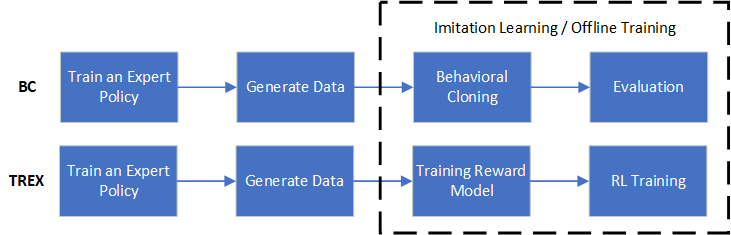
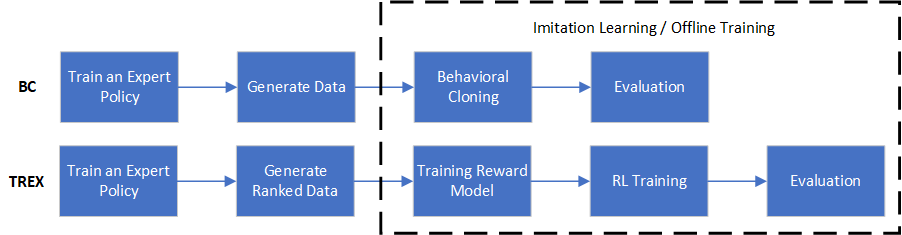
polish doc

diff --git a/source/04_best_practice/imitation_learning.rst b/source/04_best_practice/imitation_learning.rst
@@ -28,11 +28,11 @@ In this step, we will train an expert policy, which has no difference with stand
 
       from copy import deepcopy
       from easydict import EasyDict
-      from dizoo.classic_control.cartpole.config.cartpole_offppo_config import cartpole_offppo_config,\
-      cartpole_offppo_create_config
+      from dizoo.classic_control.cartpole.config.cartpole_ppo_offpolicy_config import cartpole_ppo_offpolicy_config,\
+      cartpole_ppo_offpolicy_create_config
       from ding.entry import serial_pipeline_bc, collect_demo_data, serial_pipeline
 
-      config = [deepcopy(cartpole_offppo_config), deepcopy(cartpole_offppo_create_config)]
+      config = [deepcopy(cartpole_ppo_offpolicy_config), deepcopy(cartpole_ppo_offpolicy_create_config)]
       config[0].policy.learn.learner.hook.save_ckpt_after_iter = 100
       expert_policy = serial_pipeline(config, seed=0)
 
@@ -48,7 +48,7 @@ For different Imitation Learning or Offline Training algorithms, formats of demo
       collect_count = 10000  # number of transitions to collect
       expert_data_path = 'expert_data_ppo_bc.pkl'  # data path to be saved
       state_dict = expert_policy.collect_mode.state_dict()
-      collect_config = [deepcopy(cartpole_offppo_config), deepcopy(cartpole_offppo_create_config)]
+      collect_config = [deepcopy(cartpole_ppo_offpolicy_config), deepcopy(cartpole_ppo_offpolicy_create_config)]
       collect_config[0].exp_name = 'test_serial_pipeline_bc_ppo_collect'
       collect_demo_data(
           collect_config, seed=0, state_dict=state_dict, expert_data_path=expert_data_path, collect_count=collect_count
@@ -56,7 +56,16 @@ For different Imitation Learning or Offline Training algorithms, formats of demo
 
 Because the collect config is almost the same compared to the expert config, we directly modify the original config.
 
-If we requires demonstration data sorted according to quality ranking (e.g. TREX), we should use another function to collect demonstration data:
+For TREX, however, data generation process is more complicated and is shown as below:
+
+.. image::
+    images/trex.png
+    :width: 500
+    :align: center
+
+Firstly, we load different expert models to generate various demonstration episodes. Then, the episodes will be sampled into snippets with shorter sequence length, which are sorted according to their total return.
+
+In our implementation, the process above is included in one function. The method for collecting TREX data is:
 
    .. code:: python
 
@@ -69,9 +78,6 @@ If we requires demonstration data sorted according to quality ranking (e.g. TREX
       collect_config[0].reward_model.data_path = exp_name
       collect_config[0].reward_model.reward_model_path = exp_name + '/cartpole.params'  # path for saving TREX reward model
       collect_config[0].reward_model.expert_model_path = config[0].exp_name
-      collect_config[0].reward_model.checkpoint_max = 100  # specifying ckpt for generating demonstration data.
-      collect_config[0].reward_model.checkpoint_step = 100
-      collect_config[0].reward_model.num_snippets = 100  # number of sampled pieces from the total episode.
       args = EasyDict({'cfg': deepcopy(collect_config), 'seed': 0, 'device': 'cpu'})
       trex_collecting_data(args=args)
 
@@ -81,16 +87,10 @@ If we requires demonstration data sorted according to quality ranking (e.g. TREX
 Finally in this step, we will use the generated demonstration data for Imitation Learning / Offline Training. For BC, we can use:
 
    .. code:: python
-
-      il_config = [deepcopy(cartpole_offppo_config), deepcopy(cartpole_offppo_create_config)]
-      il_config[0].policy.learn.train_epoch = 20  # train epoch
-      il_config[1].policy.type = 'bc'  # modify the policy type to be BC
-      il_config[0].policy.model.pop('critic_head_hidden_size')
-      il_config[0].policy.model.pop('actor_head_hidden_size')
-      il_config[0].policy.model.pop('action_space')
-      il_config[0].policy.learn.learning_rate = 1e-2
-      il_config[0].policy.continuous = False  # use discrete BC
-      il_config[0].exp_name = 'test_serial_pipeline_bc_ppo_il'
+      
+      from dizoo.classic_control.cartpole.config.cartpole_bc_config import cartpole_bc_config,\
+      cartpole_bc_create_config
+      il_config = [deepcopy(cartpole_bc_config), deepcopy(cartpole_bc_create_config)]
       _, converge_stop_flag = serial_pipeline_bc(il_config, seed=0, data_path=expert_data_path)
       assert converge_stop_flag
 
@@ -102,3 +102,29 @@ For TREX, we can use:
       serial_pipeline_preference_based_irl(collect_config, seed=0, max_train_iter=1)
 
 Notably, we integrate all the algorithm-specific code into each ``serial_pipeline``.
+
+For BC, this process contains cloning the expert behavior and evaluation for the result. For TREX, a reward model is trained to predict the reward of an observation. Then RL algorithms are applied to maximize the predicted reward and is finally evaluated. The key in this process is to replace the real reward with predicted reward:
+
+   .. code:: python
+
+     def estimate(self, data: list) -> List[Dict]:
+         """
+         Overview:
+             Estimate reward by rewriting the reward key in each row of the data.
+         Arguments:
+             - data (:obj:`list`): the list of data used for estimation, with at least \
+                  ``obs`` and ``action`` keys.
+         Effects:
+             - This is a side effect function which updates the reward values in place.
+         """
+         train_data_augmented = self.reward_deepcopy(data)
+
+         res = collect_states(train_data_augmented)
+         res = torch.stack(res).to(self.device)
+         with torch.no_grad():
+             sum_rewards, sum_abs_rewards = self.reward_model.cum_return(res, mode='batch')
+
+         for item, rew in zip(train_data_augmented, sum_rewards):  # TODO optimise this loop as well ?
+             item['reward'] = rew
+
+         return train_data_augmented
